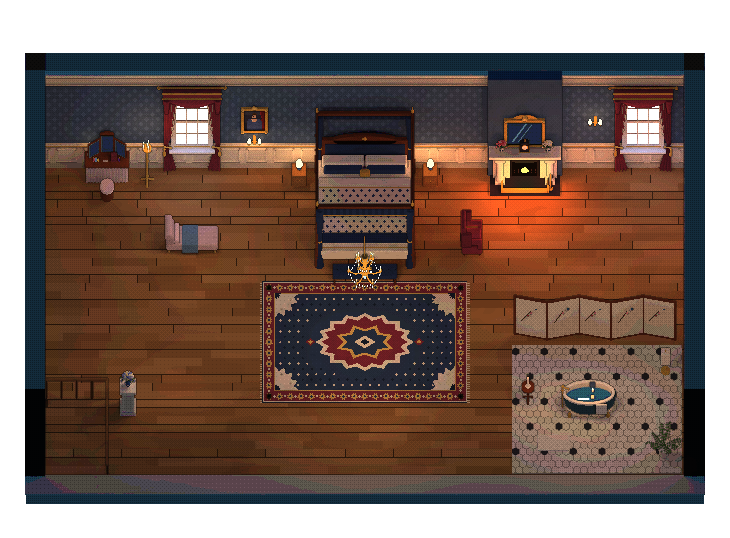
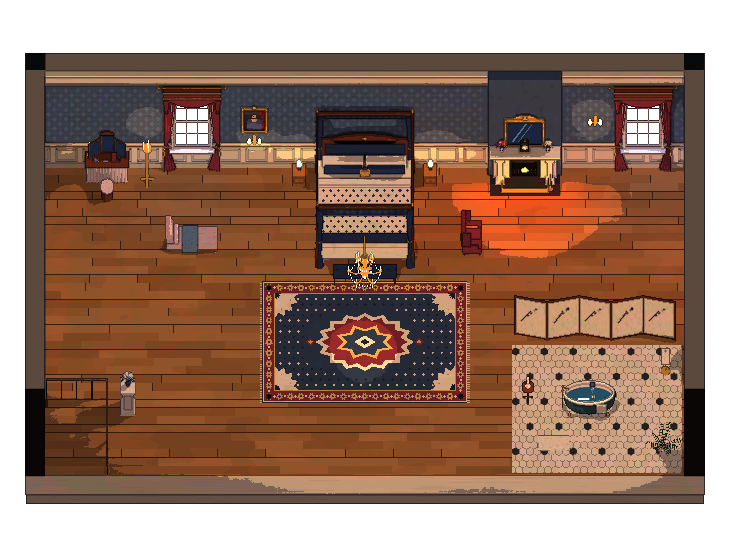
Ashcombe House's bedroom re-rendered in the toy finish: its chandelier, candle stand and sconces stay lit, and a warm night ambient keeps the floor in one even band instead of jagged dark shapes
Claude-Session: https://claude.ai/code/session_018nrKRFmqoRAiZo7miU6eXz

diff --git a/tools/bridge-art/scenes/lumar_manor_bedroom.py b/tools/bridge-art/scenes/lumar_manor_bedroom.py
@@ -80,7 +80,7 @@ for (x, r) in ((5.0, 9.0), (17.5, 6.0), (6.0, 5.0), (11.0, 10.0), (18.0, 10.0)):
     k.point_light(x, r, 3.0, '#ffd8a8', 38, radius=0.6, group='lamp')
 E.torchere(k, 4.2, 2.5, h=1.7, energy=8)                                       # between the glass and the window, clear of the way through
 
-render(k, OUT)
+render(k, OUT, ambient=('#5a4a40', 1.25))     # a warm night ambient keeps the floor in one band of the toy finish
 
 I = [
     door('STAIRS', 2, 10, 'lumar-manor', [2, 10], prompt='PRESS E TO GO DOWN'),
